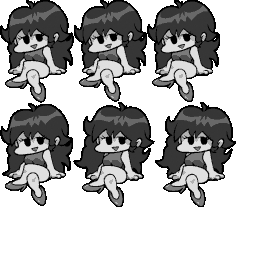
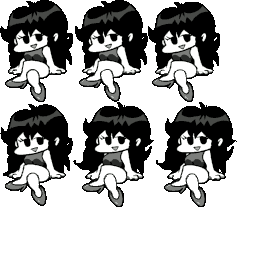
remade gf,freeplay color,improved smile mouse,added damage animation and a few more stuffs

diff --git a/src/character/bf.c b/src/character/bf.c
@@ -37,6 +37,7 @@ enum
 	BF_ArcMain_Hit1,  //Up Right
 	BF_ArcMain_Miss1, //Up Right
 	BF_ArcMain_Peace,
+	BF_ArcMain_Damage,
 	BF_ArcMain_Dead0, //BREAK
 	
 	BF_ArcMain_Max,
@@ -102,6 +103,11 @@ static const CharFrame char_bf_frame[] = {
 	{BF_ArcMain_Peace, {  0,   0, 128, 128}, { 53,  98}}, //20 peace 1
 	{BF_ArcMain_Peace, {128,   0, 128, 128}, { 53,  97}}, //21 peace 2
 	{BF_ArcMain_Peace, {  0, 128, 128, 128}, { 53,  97}}, //22 peace 3
+
+	{BF_ArcMain_Damage, {  0,   0, 128, 128}, { 52,  102}}, //damage 1
+	{BF_ArcMain_Damage, {128,   0, 128, 128}, { 63,  106}}, //damage 2
+	{BF_ArcMain_Damage, {  0, 128, 128, 128}, { 40,  112}}, //damage 3
+	{BF_ArcMain_Damage, {128, 128, 128, 128}, { 53,  112}}, //damage 4
 	
 	{BF_ArcMain_Dead0, {  0,   0, 128, 128}, { 53,  98}}, //23 dead0 0
 	{BF_ArcMain_Dead0, {128,   0, 128, 128}, { 53,  98}}, //24 dead0 1
@@ -130,24 +136,24 @@ static const Animation char_bf_anim[PlayerAnim_Max] = {
 	{2, (const u8[]){16, 17, ASCR_BACK, 1}},             //CharAnim_Right
 	{1, (const u8[]){16, 18, 18, 19, ASCR_BACK, 1}},     //CharAnim_RightAlt
 
-	{2, (const u8[]){ASCR_CHGANI, CharAnim_Idle}},       //PlayerAnim_Sweat
-	{2, (const u8[]){ASCR_CHGANI, CharAnim_Idle}},       //PlayerAnim_Sweat
-	{2, (const u8[]){ASCR_CHGANI, CharAnim_Idle}},       //PlayerAnim_Sweat
-	{2, (const u8[]){ASCR_CHGANI, CharAnim_Idle}},       //PlayerAnim_Sweat
-	{2, (const u8[]){ASCR_CHGANI, CharAnim_Idle}},       //PlayerAnim_Sweat
+	{2, (const u8[]){ASCR_CHGANI, CharAnim_Idle}},        //Useless
+	{2, (const u8[]){23, 24, 25, 26, ASCR_BACK, 1}},       //CharAnimDamage
+	{2, (const u8[]){23, 24, 25, 26, ASCR_BACK, 1}},       //CharAnimDamage
+	{2, (const u8[]){23, 24, 25, 26, ASCR_BACK, 1}},       //CharAnimDamage
+	{2, (const u8[]){23, 24, 25, 26, ASCR_BACK, 1}},       //CharAnimDamage
 	
 	{2, (const u8[]){20, 21, 22, ASCR_BACK, 1}},         //PlayerAnim_Peace
 	{2, (const u8[]){ASCR_CHGANI, CharAnim_Idle}},       //PlayerAnim_Sweat
 
-	{5, (const u8[]){23, 24, 25, 26, 26, 26, 26, 26, 26, 26, ASCR_CHGANI, PlayerAnim_Dead1}}, //PlayerAnim_Dead0
-	{5, (const u8[]){26, ASCR_REPEAT}},                                                       //PlayerAnim_Dead1
-	{3, (const u8[]){27, 28, 29, 30, 30, 30, 30, 30, 30, 30, ASCR_CHGANI, PlayerAnim_Dead3}}, //PlayerAnim_Dead2
-	{3, (const u8[]){30, ASCR_REPEAT}},                                                       //PlayerAnim_Dead3
-	{3, (const u8[]){31, 32, 30, 30, 30, 30, 30, ASCR_CHGANI, PlayerAnim_Dead3}},             //PlayerAnim_Dead4
-	{3, (const u8[]){33, 34, 30, 30, 30, 30, 30, ASCR_CHGANI, PlayerAnim_Dead3}},             //PlayerAnim_Dead5
+	{5, (const u8[]){23+4, 24+4, 25+4, 26+4, 26+4, 26+4, 26+4, 26+4, 26+4, 26+4, ASCR_CHGANI, PlayerAnim_Dead1}}, //PlayerAnim_Dead0
+	{5, (const u8[]){26+4, ASCR_REPEAT}},                                                       //PlayerAnim_Dead1
+	{3, (const u8[]){27+4, 28+4, 29+4, 30+4, 30+4, 30+4, 30+4, 30+4, 30+4, 30+4, ASCR_CHGANI, PlayerAnim_Dead3}}, //PlayerAnim_Dead2
+	{3, (const u8[]){30+4, ASCR_REPEAT}},                                                       //PlayerAnim_Dead3
+	{3, (const u8[]){31+4, 32+4, 30+4, 30+4, 30+4, 30+4, 30+4, ASCR_CHGANI, PlayerAnim_Dead3}},             //PlayerAnim_Dead4
+	{3, (const u8[]){33+4, 34+4, 30+4, 30+4, 30+4, 30+4, 30+4, ASCR_CHGANI, PlayerAnim_Dead3}},             //PlayerAnim_Dead5
 	
-	{10, (const u8[]){30, 30, 30, ASCR_BACK, 1}}, //PlayerAnim_Dead4
-	{ 3, (const u8[]){33, 34, 30, ASCR_REPEAT}},  //PlayerAnim_Dead5
+	{10, (const u8[]){30+4, 30+4, 30+4, ASCR_BACK, 1}}, //PlayerAnim_Dead4
+	{ 3, (const u8[]){33+4, 34+4, 30+4, ASCR_REPEAT}},  //PlayerAnim_Dead5
 };
 
 //Boyfriend player functions
@@ -193,7 +199,10 @@ void Char_BF_Tick(Character* character)
 		{
 			switch (stage.stage_id)
 			{
-				case StageId_1_4: //Tutorial peace
+				case StageId_1_1: //Unhappy peace
+                 
+				 if (stage.song_step == 448)
+				 character->set_anim(character, PlayerAnim_Peace);
 					break;
 				default:
 					break;
@@ -396,6 +405,7 @@ Character *Char_BF_New(fixed_t x, fixed_t y)
 		"hit1.tim",  //BF_ArcMain_Hit1
 		"miss1.tim", //BF_ArcMain_Miss1
 		"peace.tim", //BF_ArcMain_Peace
+		"damage.tim", //BF_ArcMain_Damage
 		"dead0.tim", //BF_ArcMain_Dead0
 		NULL
 	};

diff --git a/src/character/bfs.c b/src/character/bfs.c
@@ -37,6 +37,7 @@ enum
 	BFS_ArcMain_Hit1,  //Up Right
 	BFS_ArcMain_Miss1, //Up Right
 	BFS_ArcMain_Peace,
+	BFS_ArcMain_Damage,
 	BFS_ArcMain_Dead0, //BREAK
 	
 	BFS_ArcMain_Max,
@@ -102,6 +103,11 @@ static const CharFrame char_bfs_frame[] = {
 	{BFS_ArcMain_Peace, {  0,   0, 128, 128}, { 53,  98}}, //20 peace 1
 	{BFS_ArcMain_Peace, {128,   0, 128, 128}, { 53,  97}}, //21 peace 2
 	{BFS_ArcMain_Peace, {  0, 128, 128, 128}, { 53,  97}}, //22 peace 3
+
+	{BFS_ArcMain_Damage, {  0,   0, 128, 128}, { 52,  102}}, //damage 1
+	{BFS_ArcMain_Damage, {128,   0, 128, 128}, { 63,  106}}, //damage 2
+	{BFS_ArcMain_Damage, {  0, 128, 128, 128}, { 40,  112}}, //damage 3
+	{BFS_ArcMain_Damage, {128, 128, 128, 128}, { 53,  112}}, //damage 4
 	
 	{BFS_ArcMain_Dead0, {  0,   0, 128, 128}, { 53,  98}}, //23 dead0 0
 	{BFS_ArcMain_Dead0, {128,   0, 128, 128}, { 53,  98}}, //24 dead0 1
@@ -130,24 +136,24 @@ static const Animation char_bfs_anim[PlayerAnim_Max] = {
 	{2, (const u8[]){16, 17, ASCR_BACK, 1}},             //CharAnim_Right
 	{1, (const u8[]){16, 18, 18, 19, ASCR_BACK, 1}},     //CharAnim_RightAlt
 
-	{2, (const u8[]){ASCR_CHGANI, CharAnim_Idle}},       //PlayerAnim_Sweat
-	{2, (const u8[]){ASCR_CHGANI, CharAnim_Idle}},       //PlayerAnim_Sweat
-	{2, (const u8[]){ASCR_CHGANI, CharAnim_Idle}},       //PlayerAnim_Sweat
-	{2, (const u8[]){ASCR_CHGANI, CharAnim_Idle}},       //PlayerAnim_Sweat
-	{2, (const u8[]){ASCR_CHGANI, CharAnim_Idle}},       //PlayerAnim_Sweat
+	{2, (const u8[]){ASCR_CHGANI, CharAnim_Idle}},        //Useless
+	{2, (const u8[]){23, 24, 25, 26, ASCR_BACK, 1}},       //CharAnimDamage
+	{2, (const u8[]){23, 24, 25, 26, ASCR_BACK, 1}},       //CharAnimDamage
+	{2, (const u8[]){23, 24, 25, 26, ASCR_BACK, 1}},       //CharAnimDamage
+	{2, (const u8[]){23, 24, 25, 26, ASCR_BACK, 1}},       //CharAnimDamage
 	
 	{2, (const u8[]){20, 21, 22, ASCR_BACK, 1}},         //PlayerAnim_Peace
 	{2, (const u8[]){ASCR_CHGANI, CharAnim_Idle}},       //PlayerAnim_Sweat
 
-	{5, (const u8[]){23, 24, 25, 26, 26, 26, 26, 26, 26, 26, ASCR_CHGANI, PlayerAnim_Dead1}}, //PlayerAnim_Dead0
-	{5, (const u8[]){26, ASCR_REPEAT}},                                                       //PlayerAnim_Dead1
-	{3, (const u8[]){27, 28, 29, 30, 30, 30, 30, 30, 30, 30, ASCR_CHGANI, PlayerAnim_Dead3}}, //PlayerAnim_Dead2
-	{3, (const u8[]){30, ASCR_REPEAT}},                                                       //PlayerAnim_Dead3
-	{3, (const u8[]){31, 32, 30, 30, 30, 30, 30, ASCR_CHGANI, PlayerAnim_Dead3}},             //PlayerAnim_Dead4
-	{3, (const u8[]){33, 34, 30, 30, 30, 30, 30, ASCR_CHGANI, PlayerAnim_Dead3}},             //PlayerAnim_Dead5
+	{5, (const u8[]){23+4, 24+4, 25+4, 26+4, 26+4, 26+4, 26+4, 26+4, 26+4, 26+4, ASCR_CHGANI, PlayerAnim_Dead1}}, //PlayerAnim_Dead0
+	{5, (const u8[]){26+4, ASCR_REPEAT}},                                                       //PlayerAnim_Dead1
+	{3, (const u8[]){27+4, 28+4, 29+4, 30+4, 30+4, 30+4, 30+4, 30+4, 30+4, 30+4, ASCR_CHGANI, PlayerAnim_Dead3}}, //PlayerAnim_Dead2
+	{3, (const u8[]){30+4, ASCR_REPEAT}},                                                       //PlayerAnim_Dead3
+	{3, (const u8[]){31+4, 32+4, 30+4, 30+4, 30+4, 30+4, 30+4, ASCR_CHGANI, PlayerAnim_Dead3}},             //PlayerAnim_Dead4
+	{3, (const u8[]){33+4, 34+4, 30+4, 30+4, 30+4, 30+4, 30+4, ASCR_CHGANI, PlayerAnim_Dead3}},             //PlayerAnim_Dead5
 	
-	{10, (const u8[]){30, 30, 30, ASCR_BACK, 1}}, //PlayerAnim_Dead4
-	{ 3, (const u8[]){33, 34, 30, ASCR_REPEAT}},  //PlayerAnim_Dead5
+	{10, (const u8[]){30+4, 30+4, 30+4, ASCR_BACK, 1}}, //PlayerAnim_Dead4
+	{ 3, (const u8[]){33+4, 34+4, 30+4, ASCR_REPEAT}},  //PlayerAnim_Dead5
 };
 
 //Boyfriend player functions
@@ -396,6 +402,7 @@ Character *Char_BFS_New(fixed_t x, fixed_t y)
 		"hit1.tim",  //BF_ArcMain_Hit1
 		"miss1.tim", //BF_ArcMain_Miss1
 		"peace.tim", //BF_ArcMain_Peace
+		"damage.tim", //BF_ArcMain_Damage
 		"dead0.tim", //BF_ArcMain_Dead0
 		NULL
 	};

diff --git a/src/menu.c b/src/menu.c
@@ -86,6 +86,10 @@ static struct
 		{
 			fixed_t fade, fadespd;
 		} story;
+		struct
+		{
+			fixed_t back_r, back_g, back_b;
+		} freeplay;
 	#ifdef PSXF_NETWORK
 		struct
 		{
@@ -820,16 +824,17 @@ void Menu_Tick(void)
 			static const struct
 			{
 				StageId stage;
+				u32 col;
 				const char *text;
 			} menu_options[] = {
 				//{StageId_4_4, "TEST"},
-				{StageId_1_1, "UNHAPPY"},
-				{StageId_1_2, "HAPPY"},
-				{StageId_1_3, "REALLY HAPPY"},
-				{StageId_1_4, "SMILE"},
-				{StageId_2_1, "VERY UNHAPPY"},
-				{StageId_2_2, "REALLY HAPPY FANMADE"},
-				{StageId_2_3, "REALLY HAPPY BABY MODE"},
+				{StageId_1_1, 0xFFBFBEBB, "UNHAPPY"},
+				{StageId_1_2, 0xFF9E9D9B, "HAPPY"},
+				{StageId_1_3, 0xFF6E6D6B, "REALLY HAPPY"},
+				{StageId_1_4, 0xFFEDEDED, "SMILE"},
+				{StageId_2_1, 0xFFBFBEBB, "VERY UNHAPPY"},
+				{StageId_2_2, 0xFF6E6D6B, "REALLY HAPPY FANMADE"},
+				{StageId_2_3, 0xFF6E6D6B, "REALLY HAPPY BABY MODE"},
 			};
 			
 			//Initialize page
@@ -837,6 +842,9 @@ void Menu_Tick(void)
 			{
 				menu.scroll = COUNT_OF(menu_options) * FIXED_DEC(24 + SCREEN_HEIGHT2,1);
 				menu.page_param.stage.diff = StageDiff_Normal;
+				menu.page_state.freeplay.back_r = FIXED_DEC(255,1);
+				menu.page_state.freeplay.back_g = FIXED_DEC(255,1);
+				menu.page_state.freeplay.back_b = FIXED_DEC(255,1);
 			}
 			
 			//Draw page label
@@ -910,10 +918,19 @@ void Menu_Tick(void)
 			}
 			
 			//Draw background
+			fixed_t tgt_r = (fixed_t)((menu_options[menu.select].col >> 16) & 0xFF) << FIXED_SHIFT;
+			fixed_t tgt_g = (fixed_t)((menu_options[menu.select].col >>  8) & 0xFF) << FIXED_SHIFT;
+			fixed_t tgt_b = (fixed_t)((menu_options[menu.select].col >>  0) & 0xFF) << FIXED_SHIFT;
+
+			menu.page_state.freeplay.back_r += (tgt_r - menu.page_state.freeplay.back_r) >> 4;
+			menu.page_state.freeplay.back_g += (tgt_g - menu.page_state.freeplay.back_g) >> 4;
+			menu.page_state.freeplay.back_b += (tgt_b - menu.page_state.freeplay.back_b) >> 4;
 			Menu_DrawBack(
 				true,
 				8,
-				146 >> 1, 113 >> 1, 253 >> 1,
+				menu.page_state.freeplay.back_r >> (FIXED_SHIFT + 1),
+				menu.page_state.freeplay.back_g >> (FIXED_SHIFT + 1),
+				menu.page_state.freeplay.back_b >> (FIXED_SHIFT + 1),
 				0, 0, 0
 			);
 			break;

diff --git a/src/stage.c b/src/stage.c
@@ -431,8 +431,13 @@ static void Stage_NoteCheck(PlayerState *this, u8 type)
 			note->type |= NOTE_FLAG_HIT;
 			
 				this->health -=2500;
-			
-				this->character->set_anim(this->character, note_anims[type & 0x3][0]);
+
+			    if (this->character->spec & CHAR_SPEC_MISSANIM)
+				this->character->set_anim(this->character, note_anims[type & 0x3][2]);
+
+				else
+				this->character->set_anim(this->character, note_anims[type & 0x3][2]);
+				
 			this->arrow_hitan[type & 0x3] = -1;
 			
 			#ifdef PSXF_NETWORK

diff --git a/src/character/smilem.c b/src/character/smilem.c
@@ -88,7 +88,7 @@ static const CharFrame char_smilem_frame[] = {
 };
 
 static const Animation char_smilem_anim[CharAnim_Max] = {
-	{2, (const u8[]){ 0, 1, 2, 3, 4, 5, 6, 7, ASCR_BACK, 1}}, //CharAnim_Idle
+	{2, (const u8[]){ 0, 1, 2, 3, 4, 5, 6, 7,  0, 1, 2, 3, 4, 5, 6, 7, ASCR_BACK, 1}}, //CharAnim_Idle
 	{2, (const u8[]){ 8, 9, 10, 11, ASCR_BACK, 1}},         //CharAnim_Left
 	{0, (const u8[]){ASCR_CHGANI, CharAnim_Idle}},
 	{2, (const u8[]){ 12, 13, 14, 15, ASCR_BACK, 1}},         //CharAnim_Down
